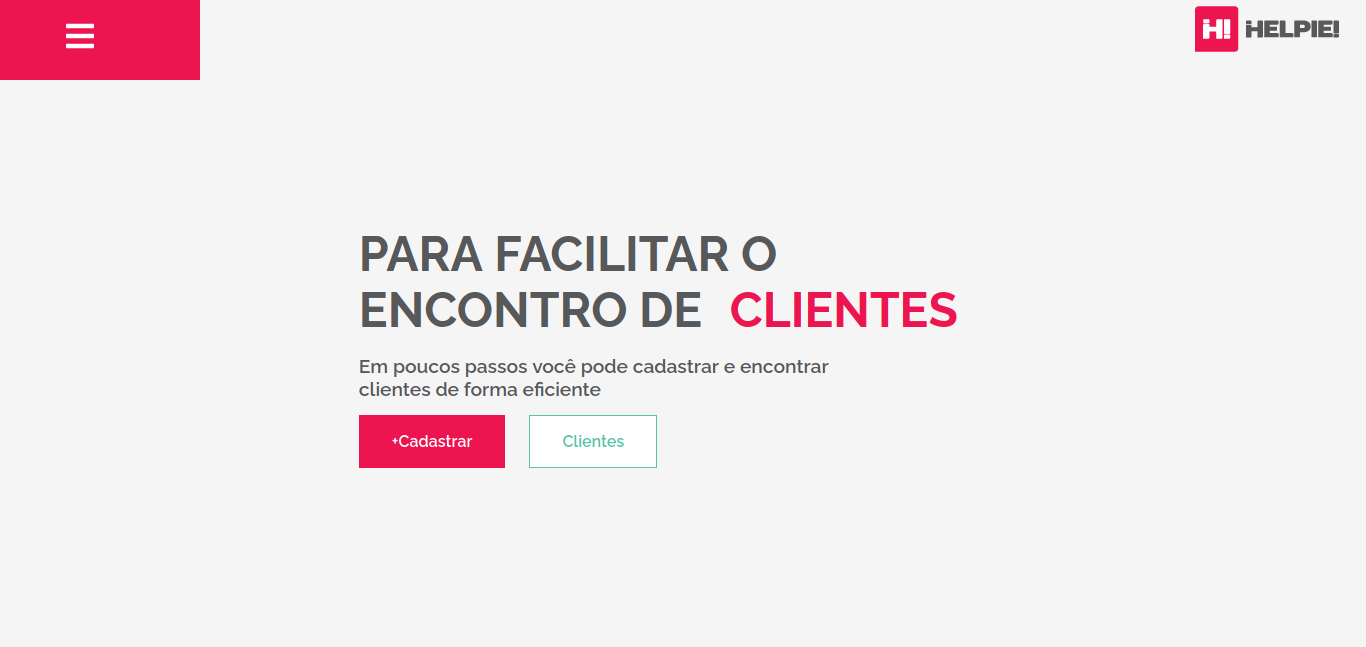
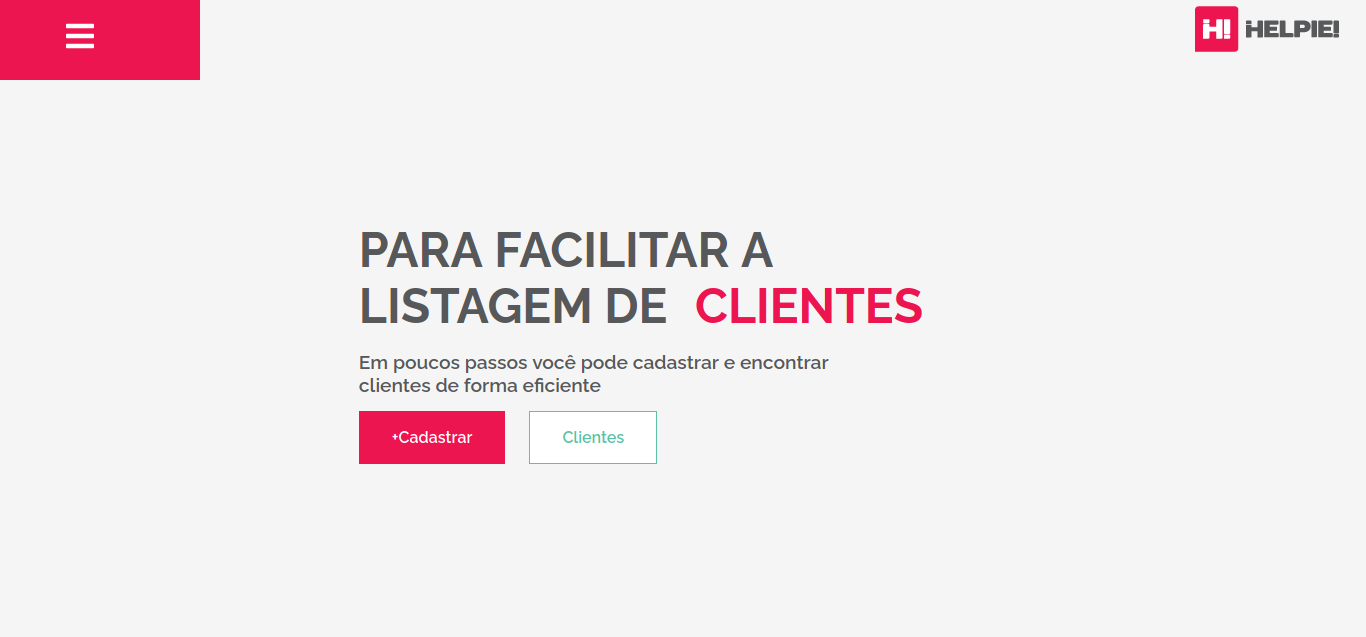
update readme

diff --git a/src/components/Home/Home.js b/src/components/Home/Home.js
@@ -9,7 +9,7 @@ function Home() {
   return (
     <div className="home">
       <h1>
-        Para facilitar o encontro de <span>clientes</span>
+        Para facilitar a listagem de <span>clientes</span>
       </h1>
       <p className="subheading">
         Em poucos passos você pode cadastrar e encontrar clientes de forma

diff --git a/README.md b/README.md
@@ -16,7 +16,7 @@ It consists on an app that has two parts. The first is a mult-step form to regis
 
 <a href="http://www.fiosdechoro.com.br" target="_blank">Live Demo</a>
 
-<img alt="Helpie - Desktop" title="Helpie Web App" src="./assets/helpie.png" width='400' />
+<img alt="Helpie - Desktop" title="Helpie Web App" src=".src/assets/helpie.png" width='400' />
 
 ## Tech Stack
 
